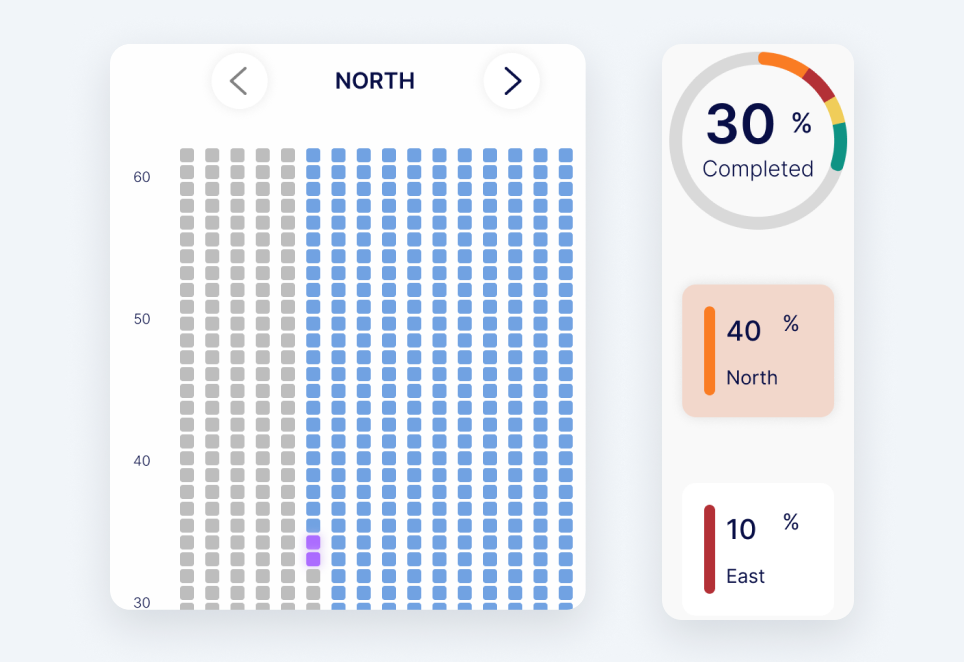
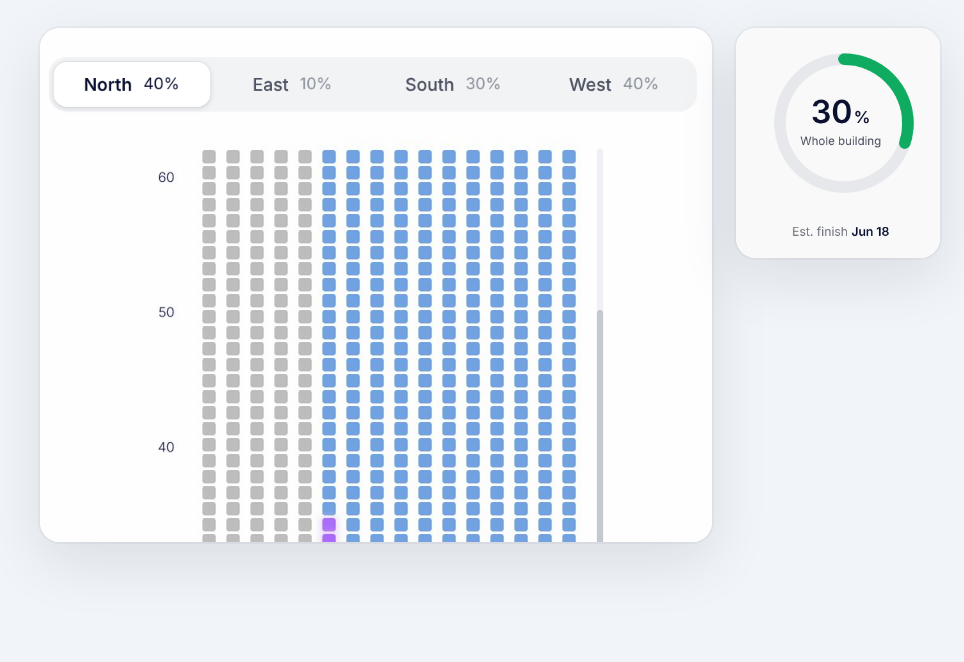
Skyline case: redesigned region, building and analytics screens
- Region: reasons on warnings, attention first, summary bar, matching data
- Building: facade tabs, simple progress ring, today's drops, est. finish
- Analytics: switch between all buildings and one building; owner KPIs,
  robot time, buildings to look at, savings and on-time trend
- Feature, decision and laptop images rebuilt from the new screens
- Copy updated to match

Claude-Session: https://claude.ai/code/session_01J9yPeBdVcBmf13JRMLxGDT

diff --git a/skyline.html b/skyline.html
@@ -44,7 +44,7 @@
     <p class="eyebrow">The solution</p>
     <h2>A hierarchical platform: strategic oversight on top, direct field control below</h2>
     
-    <div class="stack" style="margin-top: clamp(40px, 5vw, 64px)"><div class="split"><div class="panel mint"><p>One platform where owners and managers see the same live data. It answers three questions: Is the fleet working? Are there recurring issues? And is the investment paying off? It also gives managers the real-time control to keep daily operations on schedule.</p><p class="listlabel">Key features</p><ul class="dots green"><li><b>Live fleet status:</b> every site on one screen.</li><li><b>Trends:</b> issues that keep coming back, shown over time.</li><li><b>Savings:</b> what the robots save compared with manual cleaning.</li><li><b>Drill-down:</b> from the city view to a single robot.</li></ul></div><div class="media"><img src="/img/skyline/solution.jpg" alt="The regional dashboard on a laptop, with a savings card and a power-consumption alert floating beside it" width="1244" height="946" loading="lazy" decoding="async"></div></div><div><p class="subhead">Success criteria</p></div><ul class="cards" style="--cols: 3"><li class="card"><h3>Self-serve insights</h3><p>Owners and managers find what they need without asking anyone.</p></li><li class="card"><h3>Reduced support overhead</h3><p>Routine status questions answered by the platform, not by the engineering team.</p></li><li class="card"><h3>Lower operational risk</h3><p>Deviations and weather risks are visible early, before they turn into missed cleanings.</p></li></ul><div><p class="subhead">Four things the platform does</p></div><div class="features"><div class="feature"><div class="fimg"><img src="/img/skyline/feature-oversee.jpg" alt="Building list with live statuses and a fleet summary bar" width="974" height="668" loading="lazy" decoding="async"></div><div class="ftext"><p class="ftitle"><span class="ico-sq"><svg width="15" height="15" viewBox="0 0 24 24" fill="none" stroke="currentColor" stroke-width="1.6" stroke-linecap="round" stroke-linejoin="round" aria-hidden="true"><path d="M2 12s3.5-7 10-7 10 7 10 7-3.5 7-10 7S2 12 2 12z"/><circle cx="12" cy="12" r="3"/></svg></span>Oversee</p><p class="fdesc">See the whole fleet’s status live.</p><p class="ftags">Fleet status • Robot states • All sites on one map</p></div></div><div class="feature"><div class="fimg"><img src="/img/skyline/feature-respond.jpg" alt="Alerts about weather skips and power use above a notifications panel" width="974" height="668" loading="lazy" decoding="async"></div><div class="ftext"><p class="ftitle"><span class="ico-sq"><svg width="15" height="15" viewBox="0 0 24 24" fill="none" stroke="currentColor" stroke-width="1.6" stroke-linecap="round" stroke-linejoin="round" aria-hidden="true"><path d="M6 8a6 6 0 0 1 12 0c0 7 3 9 3 9H3s3-2 3-9"/><path d="M10.3 21a1.94 1.94 0 0 0 3.4 0"/></svg></span>Respond</p><p class="fdesc">Get alerted when a cleaning falls behind or the weather is a risk.</p><p class="ftags">Deviation alerts • Weather warnings • Links to the log</p></div></div><div class="feature"><div class="fimg"><img src="/img/skyline/feature-validate.jpg" alt="Completed drops chart with savings and hours-saved cards" width="974" height="668" loading="lazy" decoding="async"></div><div class="ftext"><p class="ftitle"><span class="ico-sq"><svg width="15" height="15" viewBox="0 0 24 24" fill="none" stroke="currentColor" stroke-width="1.6" stroke-linecap="round" stroke-linejoin="round" aria-hidden="true"><circle cx="12" cy="12" r="9"/><path d="M15 9.5c-.5-1-1.6-1.5-3-1.5-1.7 0-3 .9-3 2s1.3 1.7 3 2 3 .9 3 2-1.3 2-3 2c-1.4 0-2.5-.5-3-1.5M12 6.5v11"/></svg></span>Validate</p><p class="fdesc">Check whether the robots pay off.</p><p class="ftags">Savings tracking • Labor efficiency • Cost vs. savings</p></div></div><div class="feature"><div class="fimg"><img src="/img/skyline/feature-explore.jpg" alt="Window detail card over a facade grid with completion per facade" width="974" height="666" loading="lazy" decoding="async"></div><div class="ftext"><p class="ftitle"><span class="ico-sq"><svg width="15" height="15" viewBox="0 0 24 24" fill="none" stroke="currentColor" stroke-width="1.6" stroke-linecap="round" stroke-linejoin="round" aria-hidden="true"><circle cx="11" cy="11" r="7"/><path d="m20 20-3.5-3.5M11 8v6M8 11h6"/></svg></span>Explore</p><p class="fdesc">Go from the fleet down to a single window.</p><p class="ftags">Fleet → region → building → window</p></div></div></div><p class="note" style="margin-top: 16px">Figures shown are sample data.</p></div>
+    <div class="stack" style="margin-top: clamp(40px, 5vw, 64px)"><div class="split"><div class="panel mint"><p>One platform where owners and managers see the same live data. It answers three questions: Is the fleet working? Are there recurring issues? And is the investment paying off? It also gives managers the real-time control to keep daily operations on schedule.</p><p class="listlabel">Key features</p><ul class="dots green"><li><b>Live fleet status:</b> every site on one screen.</li><li><b>Trends:</b> issues that keep coming back, shown over time.</li><li><b>Savings:</b> what the robots save compared with manual cleaning.</li><li><b>Drill-down:</b> from the city view to a single robot.</li></ul></div><div class="media"><img src="/img/skyline/solution.jpg" alt="The regional dashboard on a laptop, with a savings card and a power-consumption alert floating beside it" width="1244" height="946" loading="lazy" decoding="async"></div></div><div><p class="subhead">Success criteria</p></div><ul class="cards" style="--cols: 3"><li class="card"><h3>Self-serve insights</h3><p>Owners and managers find what they need without asking anyone.</p></li><li class="card"><h3>Reduced support overhead</h3><p>Routine status questions answered by the platform, not by the engineering team.</p></li><li class="card"><h3>Lower operational risk</h3><p>Deviations and weather risks are visible early, before they turn into missed cleanings.</p></li></ul><div><p class="subhead">Four things the platform does</p></div><div class="features"><div class="feature"><div class="fimg"><img src="/img/skyline/feature-oversee.jpg" alt="Buildings that need attention, each with the reason, and a summary bar" width="974" height="668" loading="lazy" decoding="async"></div><div class="ftext"><p class="ftitle"><span class="ico-sq"><svg width="15" height="15" viewBox="0 0 24 24" fill="none" stroke="currentColor" stroke-width="1.6" stroke-linecap="round" stroke-linejoin="round" aria-hidden="true"><path d="M2 12s3.5-7 10-7 10 7 10 7-3.5 7-10 7S2 12 2 12z"/><circle cx="12" cy="12" r="3"/></svg></span>Oversee</p><p class="fdesc">See the whole fleet’s status live.</p><p class="ftags">Fleet status • Robot states • All sites on one map</p></div></div><div class="feature"><div class="fimg"><img src="/img/skyline/feature-respond.jpg" alt="Alerts about weather skips and power use above a notifications panel" width="974" height="668" loading="lazy" decoding="async"></div><div class="ftext"><p class="ftitle"><span class="ico-sq"><svg width="15" height="15" viewBox="0 0 24 24" fill="none" stroke="currentColor" stroke-width="1.6" stroke-linecap="round" stroke-linejoin="round" aria-hidden="true"><path d="M6 8a6 6 0 0 1 12 0c0 7 3 9 3 9H3s3-2 3-9"/><path d="M10.3 21a1.94 1.94 0 0 0 3.4 0"/></svg></span>Respond</p><p class="fdesc">Get alerted when a cleaning falls behind or the weather is a risk.</p><p class="ftags">Deviation alerts • Weather warnings • Links to the log</p></div></div><div class="feature"><div class="fimg"><img src="/img/skyline/feature-validate.jpg" alt="Savings over the year with savings and utilization cards" width="974" height="668" loading="lazy" decoding="async"></div><div class="ftext"><p class="ftitle"><span class="ico-sq"><svg width="15" height="15" viewBox="0 0 24 24" fill="none" stroke="currentColor" stroke-width="1.6" stroke-linecap="round" stroke-linejoin="round" aria-hidden="true"><circle cx="12" cy="12" r="9"/><path d="M15 9.5c-.5-1-1.6-1.5-3-1.5-1.7 0-3 .9-3 2s1.3 1.7 3 2 3 .9 3 2-1.3 2-3 2c-1.4 0-2.5-.5-3-1.5M12 6.5v11"/></svg></span>Validate</p><p class="fdesc">Check whether the robots pay off.</p><p class="ftags">Savings tracking • Labor efficiency • Cost vs. savings</p></div></div><div class="feature"><div class="fimg"><img src="/img/skyline/feature-explore.jpg" alt="Window detail card over a facade grid, with overall progress and today’s drops" width="974" height="666" loading="lazy" decoding="async"></div><div class="ftext"><p class="ftitle"><span class="ico-sq"><svg width="15" height="15" viewBox="0 0 24 24" fill="none" stroke="currentColor" stroke-width="1.6" stroke-linecap="round" stroke-linejoin="round" aria-hidden="true"><circle cx="11" cy="11" r="7"/><path d="m20 20-3.5-3.5M11 8v6M8 11h6"/></svg></span>Explore</p><p class="fdesc">Go from the fleet down to a single window.</p><p class="ftags">Fleet → region → building → window</p></div></div></div><p class="note" style="margin-top: 16px">Figures shown are sample data.</p></div>
   </div>
 </section>
 <section class="section">
@@ -63,13 +63,13 @@
     <div class="dhead"><span class="dnum">02</span><h3>Progress you can see on the building</h3></div>
     <div class="dbody"><p><b>Problem:</b> Area managers need to know exactly where the robot is working and what’s left. Most of them are field people who spend the day outside, not analysts.</p><p><b>Decision:</b> Instead of a percentage or a progress bar, I showed progress as a live grid of the building’s windows, facade by facade, with each window’s status.</p><p><b>Why:</b> A percentage tells you how much is done; the grid shows exactly which windows. For field people, a visual they can read at a glance is easier than numbers.</p><p class="shown">Shown in: Building Deep-Dive</p></div>
   </div>
-  <figure class="fig bare"><img src="/img/skyline/decision-window-grid.png" alt="A window grid for the north facade, with completed windows in blue, next to completion percentages per facade" width="964" height="662" loading="lazy" decoding="async"></figure>
+  <figure class="fig bare"><img src="/img/skyline/decision-window-grid.png" alt="A window grid for the north facade under facade tabs with progress per side, next to overall building progress" width="964" height="662" loading="lazy" decoding="async"></figure>
 </article><article class="decision side">
   <div class="dtext">
     <div class="dhead"><span class="dnum">03</span><h3>Weather where the decision happens</h3></div>
     <div class="dbody"><p><b>Problem:</b> Wind and weather decide whether robots can operate safely, and checking them meant switching to another app.</p><p><b>Decision:</b> I placed live weather and wind data next to the cleaning status, and flagged weather stops directly in the cleaning log (“Heavy Winds”).</p><p><b>Why:</b> When a cleaning is paused, the reason is right there, so managers understand it without leaving the platform.</p><p class="shown">Shown in: Regional Drill-Down and Building Deep-Dive</p></div>
   </div>
-  <figure class="fig bare"><img src="/img/skyline/decision-weather.png" alt="A weather widget showing 23°C and wind of 14 km/h above a cleaning log with a “Heavy Winds” entry" width="964" height="662" loading="lazy" decoding="async"></figure>
+  <figure class="fig bare"><img src="/img/skyline/decision-weather.png" alt="A weather widget showing 68°F and wind of 14 km/h above a cleaning log with a “Heavy Winds” entry" width="964" height="662" loading="lazy" decoding="async"></figure>
 </article></div>
   </div>
 </section>
@@ -78,7 +78,7 @@
     <p class="eyebrow">Information architecture</p>
     <h2>Defining the system flows</h2>
     <p class="lead">To serve both the company owner’s big-picture needs and the area manager’s operational detail, I designed a four-level drill-down: from a Global Fleet Overview down to a single building’s window-level status, and on to its analytics. Each level shows only what’s needed there, and data that used to sit in engineering logs became something managers could act on.</p>
-    <div class="stack" style="margin-top: clamp(40px, 5vw, 64px)"><ol class="levels"><li><p class="lnum"><span>1</span>Entry point</p><p class="lname">Global Fleet Overview</p><p class="lmeta">Owner KPI view • High-level business metrics</p></li><li><p class="lnum"><span>2</span>Regional</p><p class="lname">NYC map & building list</p><p class="lmeta">Filter by region • Spatial context</p></li><li><p class="lnum"><span>3</span>Building detail</p><p class="lname">Window-by-window progress</p><p class="lmeta">Operational view • Real-time data</p></li><li><p class="lnum"><span>4</span>Management</p><p class="lname">Analytics & fleet KPIs</p><p class="lmeta">Operational KPIs • Resource trends</p></li></ol><div class="diagram"><img src="/img/skyline/information-architecture.png" alt="Flow diagram: the business stakeholder enters at the global fleet overview, filters by region and selects a building; the ops manager works at building level, analyses anomalies or keeps monitoring, and exports completion reports" width="2098" height="2142" loading="lazy" decoding="async"></div></div>
+    <div class="stack" style="margin-top: clamp(40px, 5vw, 64px)"><ol class="levels"><li><p class="lnum"><span>1</span>Entry point</p><p class="lname">Global Fleet Overview</p><p class="lmeta">Owner KPI view • High-level business metrics</p></li><li><p class="lnum"><span>2</span>Regional</p><p class="lname">NYC map & building list</p><p class="lmeta">Filter by region • Spatial context</p></li><li><p class="lnum"><span>3</span>Building detail</p><p class="lname">Window-by-window progress</p><p class="lmeta">Operational view • Real-time data</p></li><li><p class="lnum"><span>4</span>Management</p><p class="lname">Analytics & fleet KPIs</p><p class="lmeta">Business KPIs • Buildings out of range</p></li></ol><div class="diagram"><img src="/img/skyline/information-architecture.png" alt="Flow diagram: the business stakeholder enters at the global fleet overview, filters by region and selects a building; the ops manager works at building level, analyses anomalies or keeps monitoring, and exports completion reports" width="2098" height="2142" loading="lazy" decoding="async"></div></div>
   </div>
 </section>
 <section class="section">
@@ -86,7 +86,7 @@
     <p class="eyebrow">The platform</p>
     <h2>From the whole fleet down to a single window</h2>
     
-    <div class="stack" style="margin-top: clamp(40px, 5vw, 64px)"><div class="step"><p class="steplabel">The way in</p><h3 class="subhead">Login: Facade Analytics</h3><p class="lead">A simple sign-in screen. The illustration shows the idea behind the product: seeing what happens on the outside of the building.</p><div class="shot"><img src="/img/skyline/login.jpg" alt="Login screen: “Welcome to Skyline’s Facade Analytics. Data, outside the four walls” next to the sign-in form" width="2400" height="1467" loading="lazy" decoding="async"></div><ul class="callouts" style="--cols: 3"><li><h3>Brand identity</h3><p>Skyline Robotics branding, kept minimal.</p></li><li><h3>Visual metaphor</h3><p>An AI-generated illustration of the product idea.</p></li><li><h3>Minimal sign-in</h3><p>A short sign-in form.</p></li></ul></div><div class="step"><p class="steplabel">Level 1 · Entry point</p><h3 class="subhead">Global Fleet Overview</h3><p class="lead">The owner’s entry point answers one question first: is anything wrong right now? What needs attention sits above the areas, and the areas are sorted by priority.</p><div class="shot"><img src="/img/skyline/fleet.jpg" alt="Fleet overview: savings, robots working, active alerts and uptime; a Needs your attention list with a high-wind stop in Los Angeles and a slowdown in Chicago; and areas sorted by priority with progress, robots, weather and buildings" width="2400" height="1475" loading="lazy" decoding="async"></div><p class="note">Figures shown are sample data.</p><ul class="callouts" style="--cols: 3"><li><h3>KPI cards</h3><p>Savings, robots working, active alerts and uptime, each with its trend.</p></li><li><h3>Needs your attention</h3><p>The few issues that need a decision, each with a direct link to the log or the trend.</p></li><li><h3>Areas by priority</h3><p>Critical first, with a color edge, progress, robots and live weather per area.</p></li></ul></div><div class="step"><p class="steplabel">Level 2 · Regional</p><h3 class="subhead">Regional Drill-Down (NYC)</h3><p class="lead">The area manager’s entry point: every building in the region with its live status, on a map with weather and wind alongside.</p><div class="shot"><img src="/img/skyline/region.jpg" alt="New York region: building list with online, warning and offline states next to a city map with status pins" width="2400" height="1475" loading="lazy" decoding="async"></div><ul class="callouts" style="--cols: 2"><li><h3>Status indicators</h3><p>A color-coded building list with online, warning and issue states.</p></li><li><h3>Weather widget</h3><p>Temperature, wind speed and operational safety thresholds, right next to the buildings.</p></li></ul></div><div class="step"><p class="steplabel">Level 3 · Building detail</p><h3 class="subhead">Building Deep-Dive</h3><p class="lead">Window-by-window progress for a single building, with facade switching and a cleaning log that records every cycle, including weather stops.</p><div class="shot"><img src="/img/skyline/building.jpg" alt="Single building view: cleaning log with a heavy-winds stop and a window grid of the north facade" width="2400" height="1475" loading="lazy" decoding="async"></div><ul class="callouts" style="--cols: 3"><li><h3>Historic cycles</h3><p>Past cleaning cycles and their completion, for performance tracking.</p></li><li><h3>Facade switching</h3><p>North, south, east and west facades, to follow work on every side.</p></li><li><h3>Window grid</h3><p>The facade as a grid, with the live cleaning status of every window.</p></li></ul></div><div class="step"><p class="steplabel">Building setup</p><h3 class="subhead">Building Onboarding</h3><p class="lead">Every window in the view above has to be mapped before a robot can start. I designed the screen where the operator enters it on-site, with no developer in between: one drop, duplicated across the facade, with soft checks that catch typos before they reach the robot.</p><div class="proto-video"><video src="/img/building-onboarding/prototype.mp4" poster="/img/building-onboarding/prototype-poster.jpg" width="1440" height="900" autoplay muted loop playsinline preload="metadata" aria-label="Walkthrough of the Add New Building screen: a soft check catches a 12 m window width, the window sequence is edited live on the facade, and the facade is duplicated to a shorter side"></video></div><script>(function(){var v=document.currentScript.previousElementSibling.querySelector("video");if(matchMedia("(prefers-reduced-motion: reduce)").matches){v.removeAttribute("autoplay");v.pause();v.controls=true}})()</script><a class="link-card" href="/building-onboarding"><span><b>Building Onboarding</b> · Read the full case study</span><svg width="14" height="14" viewBox="0 0 16 16" fill="none" aria-hidden="true"><path d="M3 8h9M8.5 4.5 12 8l-3.5 3.5" stroke="currentColor" stroke-width="1.5" stroke-linecap="square"/></svg></a></div><div class="step"><p class="steplabel">Level 4 · Management</p><h3 class="subhead">Granular analytics and anomaly detection</h3><p class="lead">Operational KPIs for a single building, compared against historical averages to surface anomalies.</p><div class="shot"><img src="/img/skyline/analytics.jpg" alt="Building analytics: savings and hours-saved cards, completed drops, and resource use compared with historical averages" width="2400" height="1475" loading="lazy" decoding="async"></div><p class="note">Figures shown are sample data.</p><ul class="callouts" style="--cols: 3"><li><h3>Business value</h3><p>Estimated annual savings and operational hours saved, compared with traditional cleaning.</p></li><li><h3>Benchmarking</h3><p>Current resource use against historical averages, to spot spikes early.</p></li><li><h3>Progress tracking</h3><p>Completed drops against the plan, with daily averages.</p></li></ul></div><div class="step"><p class="steplabel">Level 4 · Reports</p><h3 class="subhead">Operational analytics</h3><p class="lead">Performance scores, completed drops and water consumption per building, for client and sustainability reporting.</p><div class="shot"><img src="/img/skyline/reports.jpg" alt="Report view with performance scores, completed drops and water consumption per building" width="2400" height="1475" loading="lazy" decoding="async"></div><p class="note">Figures shown are sample data.</p><ul class="callouts" style="--cols: 3"><li><h3>Performance scores</h3><p>Actual against expected performance, per building.</p></li><li><h3>Completed drops</h3><p>Historical data on completed operations.</p></li><li><h3>Water consumption</h3><p>Usage per day, with anomaly alerts for unusual use.</p></li></ul></div></div>
+    <div class="stack" style="margin-top: clamp(40px, 5vw, 64px)"><div class="step"><p class="steplabel">The way in</p><h3 class="subhead">Login: Facade Analytics</h3><p class="lead">A simple sign-in screen. The illustration shows the idea behind the product: seeing what happens on the outside of the building.</p><div class="shot"><img src="/img/skyline/login.jpg" alt="Login screen: “Welcome to Skyline’s Facade Analytics. Data, outside the four walls” next to the sign-in form" width="2400" height="1467" loading="lazy" decoding="async"></div><ul class="callouts" style="--cols: 3"><li><h3>Brand identity</h3><p>Skyline Robotics branding, kept minimal.</p></li><li><h3>Visual metaphor</h3><p>An AI-generated illustration of the product idea.</p></li><li><h3>Minimal sign-in</h3><p>A short sign-in form.</p></li></ul></div><div class="step"><p class="steplabel">Level 1 · Entry point</p><h3 class="subhead">Global Fleet Overview</h3><p class="lead">The owner’s entry point answers one question first: is anything wrong right now? What needs attention sits above the areas, and the areas are sorted by priority.</p><div class="shot"><img src="/img/skyline/fleet.jpg" alt="Fleet overview: savings, robots working, active alerts and uptime; a Needs your attention list with a high-wind stop in Los Angeles and a slowdown in Chicago; and areas sorted by priority with progress, robots, weather and buildings" width="2400" height="1475" loading="lazy" decoding="async"></div><p class="note">Figures shown are sample data.</p><ul class="callouts" style="--cols: 3"><li><h3>KPI cards</h3><p>Savings, robots working, active alerts and uptime, each with its trend.</p></li><li><h3>Needs your attention</h3><p>The few issues that need a decision, each with a direct link to the log or the trend.</p></li><li><h3>Areas by priority</h3><p>Critical first, with a color edge, progress, robots and live weather per area.</p></li></ul></div><div class="step"><p class="steplabel">Level 2 · Regional</p><h3 class="subhead">Regional Drill-Down (NYC)</h3><p class="lead">The area manager’s entry point: buildings that need attention come first, each with the reason, next to a map with the same statuses.</p><div class="shot"><img src="/img/skyline/region.jpg" alt="New York region: buildings that need attention listed first with the reason, the rest with cleaning progress, next to a city map with status pins" width="2400" height="1475" loading="lazy" decoding="async"></div><ul class="callouts" style="--cols: 3"><li><h3>Reason, not just status</h3><p>Each warning says what happened, like an open window or low water pressure.</p></li><li><h3>Summary bar</h3><p>Buildings, cleaning now, needs attention and robots online, at a glance.</p></li><li><h3>Weather widget</h3><p>Temperature and wind, right next to the buildings.</p></li></ul></div><div class="step"><p class="steplabel">Level 3 · Building detail</p><h3 class="subhead">Building Deep-Dive</h3><p class="lead">Window-by-window progress for a single building, with overall progress, an estimated finish date and a cleaning log that records every day of the cycle, including weather stops.</p><div class="shot"><img src="/img/skyline/building.jpg" alt="Single building view: cleaning log with a heavy-winds stop, facade tabs above a window grid of the north facade, and overall progress with today’s drops" width="2400" height="1475" loading="lazy" decoding="async"></div><ul class="callouts" style="--cols: 3"><li><h3>Facade tabs</h3><p>North, east, south and west, each with its own progress.</p></li><li><h3>Window grid</h3><p>The facade as a grid, with the live cleaning status of every window.</p></li><li><h3>Today</h3><p>Drops done, in progress and next, and whether the day is on track.</p></li></ul></div><div class="step"><p class="steplabel">Building setup</p><h3 class="subhead">Building Onboarding</h3><p class="lead">Every window in the view above has to be mapped before a robot can start. I designed the screen where the operator enters it on-site, with no developer in between: one drop, duplicated across the facade, with soft checks that catch typos before they reach the robot.</p><div class="proto-video"><video src="/img/building-onboarding/prototype.mp4" poster="/img/building-onboarding/prototype-poster.jpg" width="1440" height="900" autoplay muted loop playsinline preload="metadata" aria-label="Walkthrough of the Add New Building screen: a soft check catches a 12 m window width, the window sequence is edited live on the facade, and the facade is duplicated to a shorter side"></video></div><script>(function(){var v=document.currentScript.previousElementSibling.querySelector("video");if(matchMedia("(prefers-reduced-motion: reduce)").matches){v.removeAttribute("autoplay");v.pause();v.controls=true}})()</script><a class="link-card" href="/building-onboarding"><span><b>Building Onboarding</b> · Read the full case study</span><svg width="14" height="14" viewBox="0 0 16 16" fill="none" aria-hidden="true"><path d="M3 8h9M8.5 4.5 12 8l-3.5 3.5" stroke="currentColor" stroke-width="1.5" stroke-linecap="square"/></svg></a></div><div class="step"><p class="steplabel">Level 4 · Management</p><h3 class="subhead">Analytics for the fleet or a single building</h3><p class="lead">One analytics screen with a switch at the top. All buildings shows the business view an owner needs. A single building shows why it’s behind.</p><div class="shot"><img src="/img/skyline/analytics.jpg" alt="Fleet analytics: savings, utilization, cycles on time and cost per 1,000 sqft; where robot time goes; the five buildings to look at; savings over the year; cycles finished on time against the target" width="2400" height="1475" loading="lazy" decoding="async"></div><div class="shot"><img src="/img/skyline/analytics-building.jpg" alt="Single building analytics: progress against plan with a forecast finish date, drops per day, resource use and the robot’s service status" width="2400" height="1475" loading="lazy" decoding="async"></div><p class="note">Figures shown are sample data.</p><ul class="callouts" style="--cols: 3"><li><h3>Business view</h3><p>Savings, robot utilization, cycles on time and cost per 1,000 sqft, each with its trend.</p></li><li><h3>Buildings to look at</h3><p>The five buildings most out of range, and why, one click from their analytics.</p></li><li><h3>Building view</h3><p>Progress against the plan with a forecast finish date, daily pace and the robot’s service status.</p></li></ul></div><div class="step"><p class="steplabel">Level 4 · Reports</p><h3 class="subhead">Operational analytics</h3><p class="lead">Performance scores, completed drops and water consumption per building, for client and sustainability reporting.</p><div class="shot"><img src="/img/skyline/reports.jpg" alt="Report view with performance scores, completed drops and water consumption per building" width="2400" height="1475" loading="lazy" decoding="async"></div><p class="note">Figures shown are sample data.</p><ul class="callouts" style="--cols: 3"><li><h3>Performance scores</h3><p>Actual against expected performance, per building.</p></li><li><h3>Completed drops</h3><p>Historical data on completed operations.</p></li><li><h3>Water consumption</h3><p>Usage per day, with anomaly alerts for unusual use.</p></li></ul></div></div>
   </div>
 </section>
 <section class="section">
